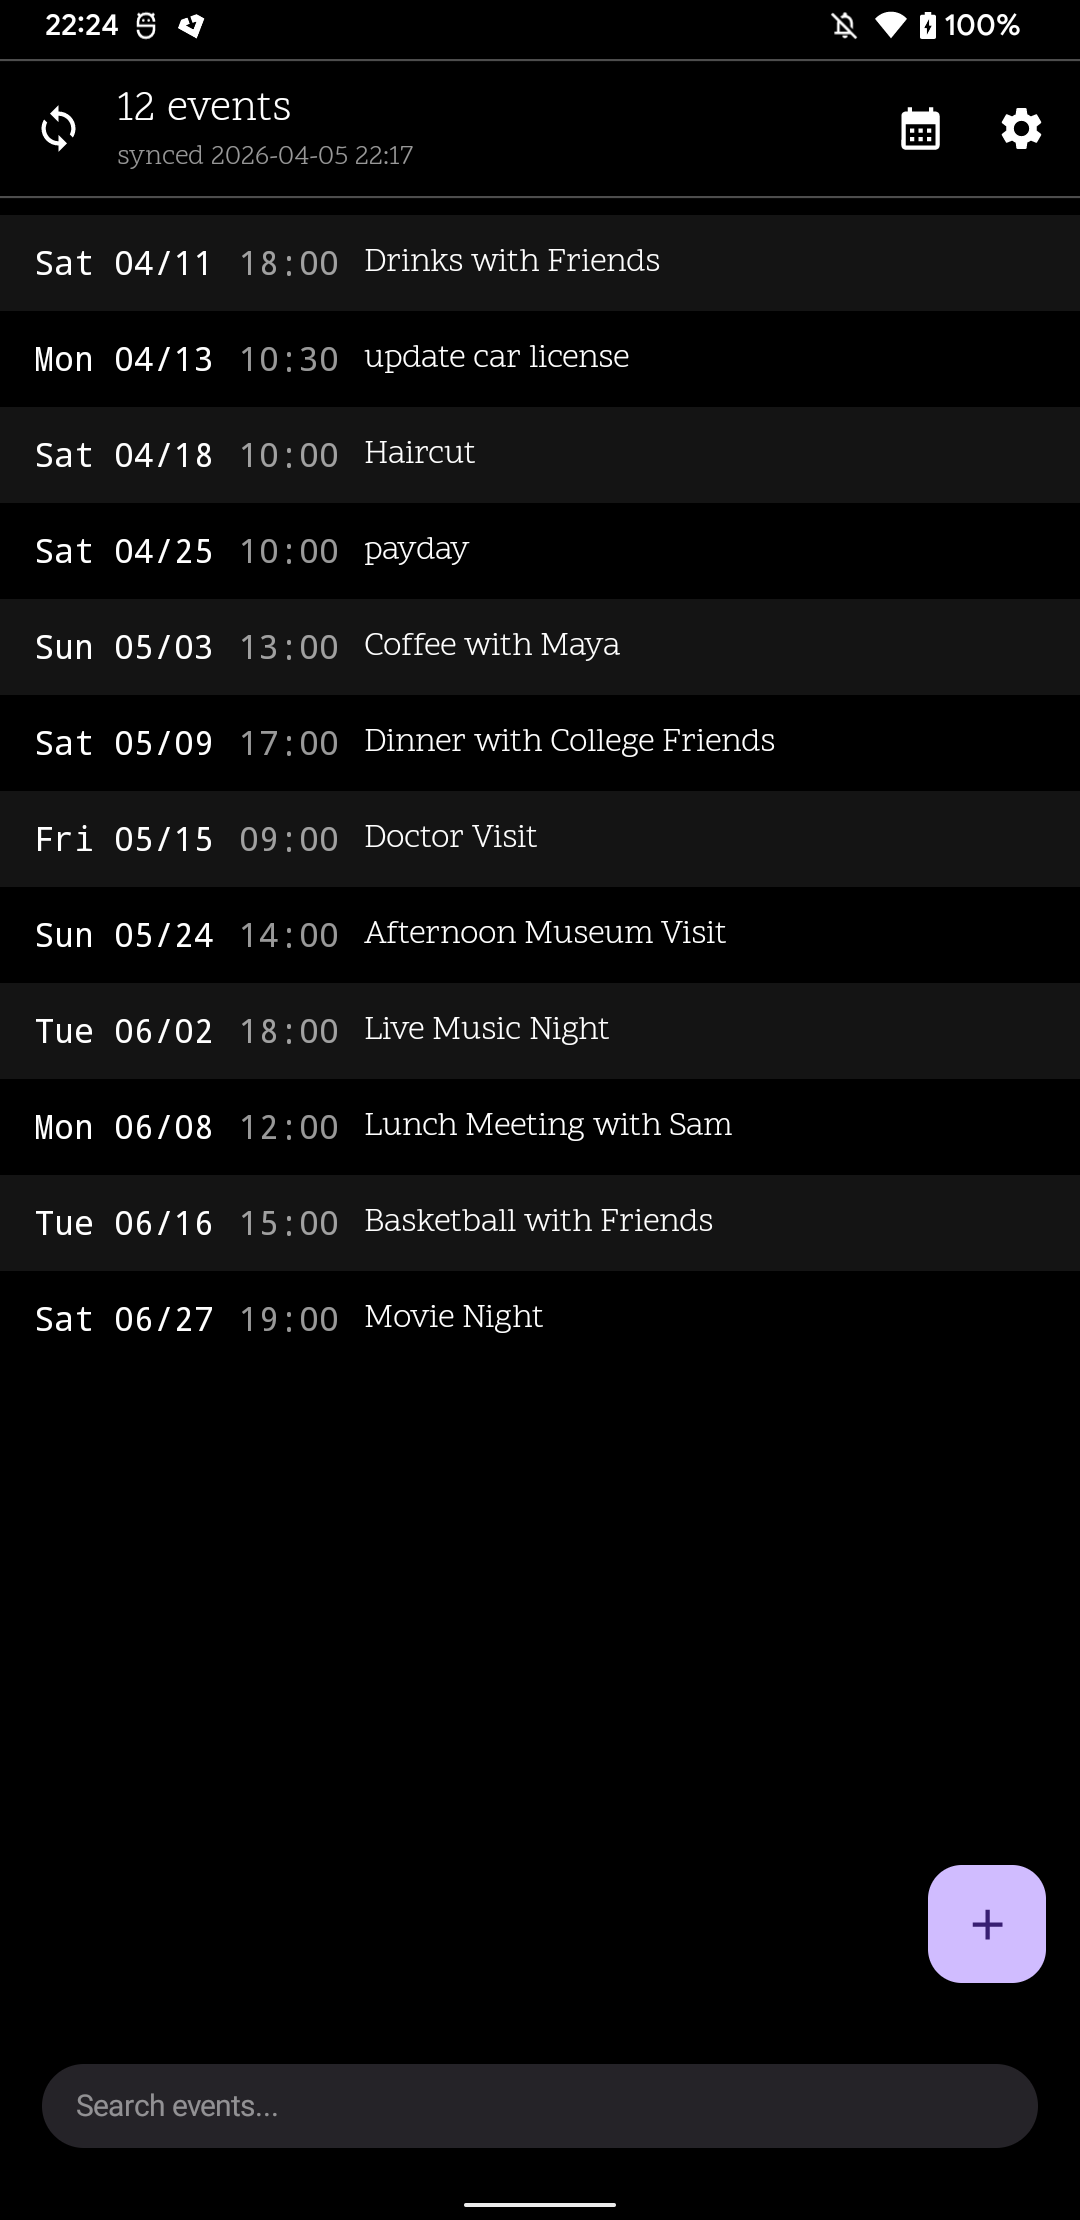
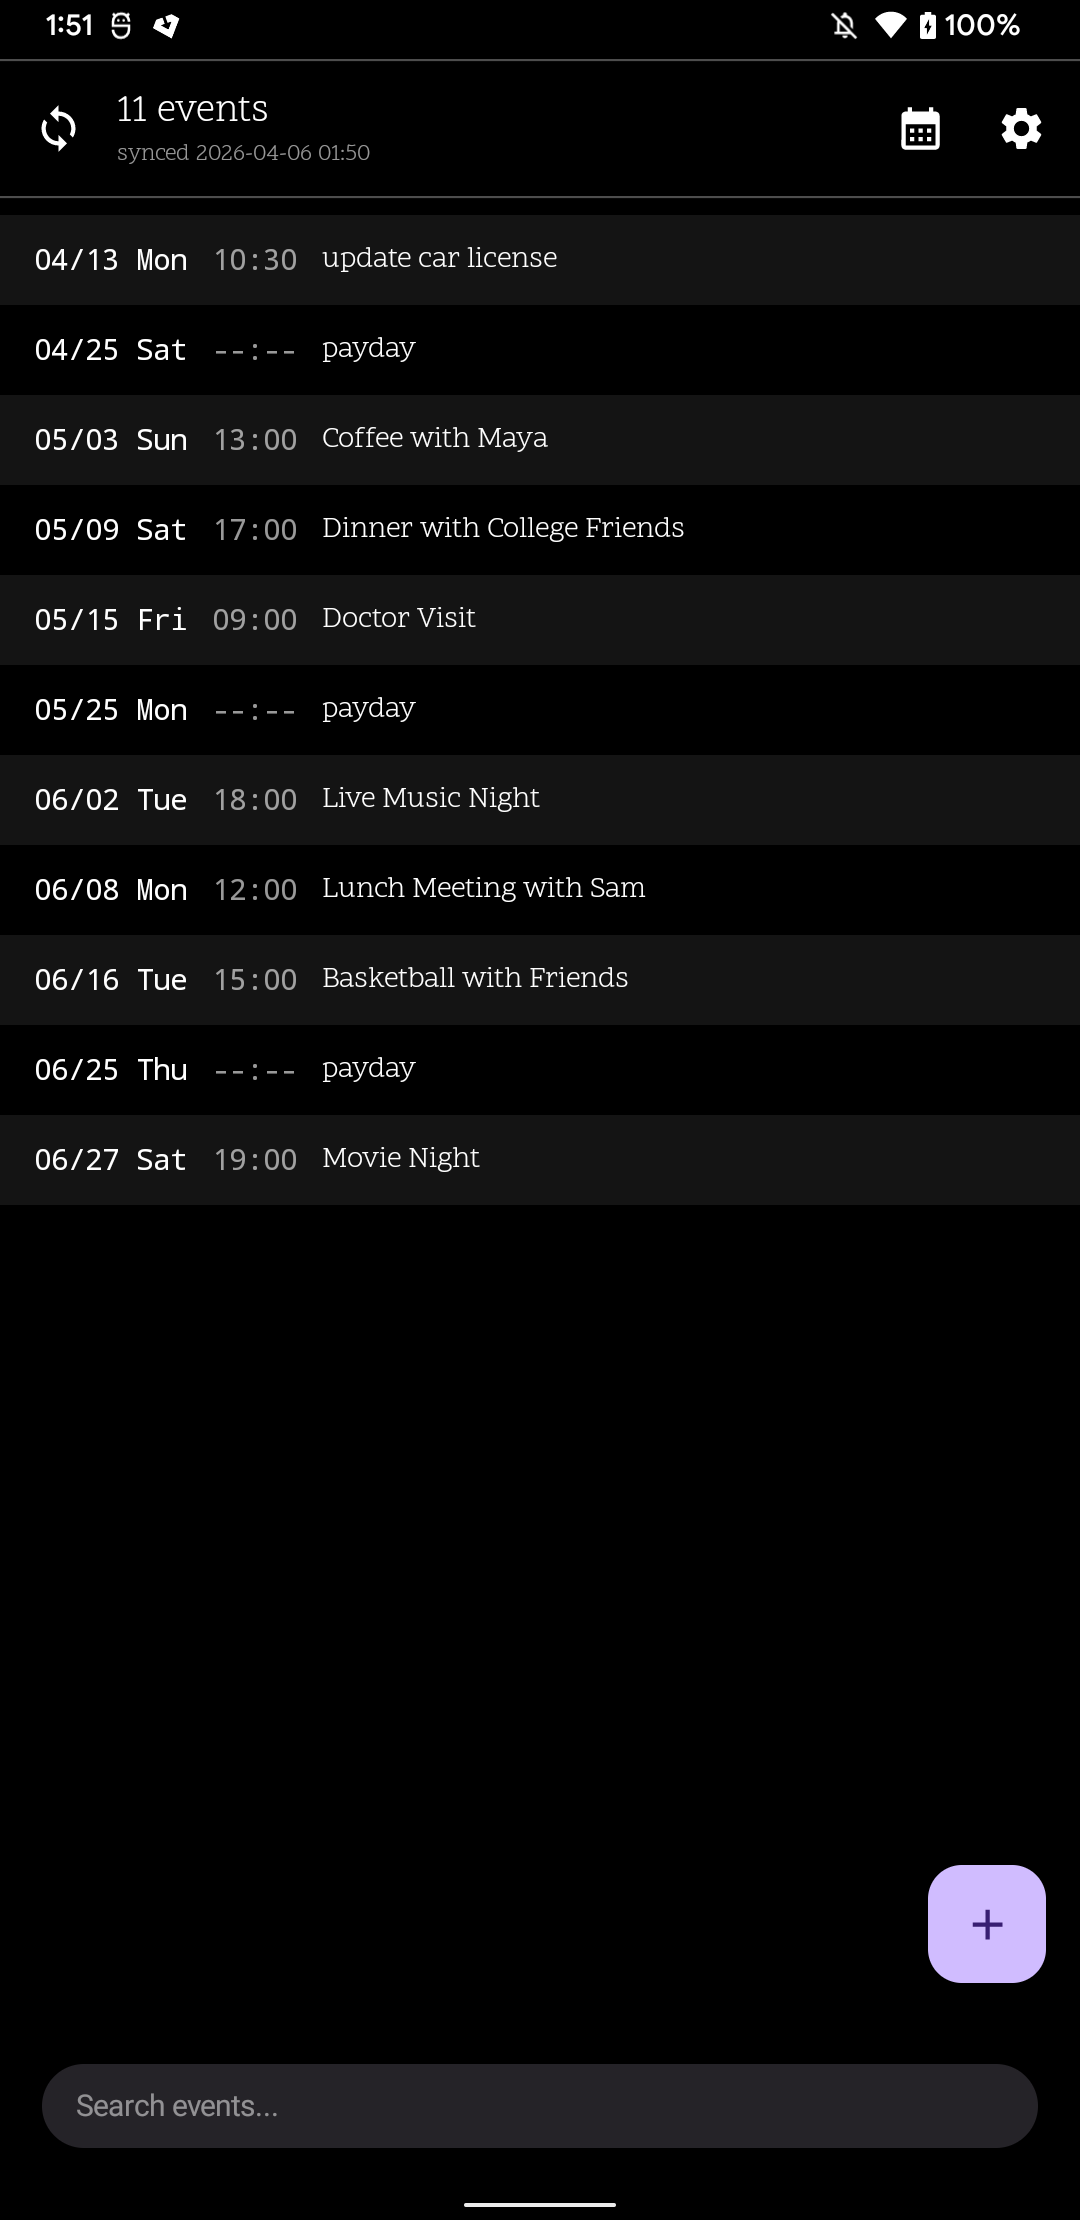
update: (20260406-015440)

diff --git a/app/src/main/java/fumi/day/literalagenda/data/SettingsRepository.kt b/app/src/main/java/fumi/day/literalagenda/data/SettingsRepository.kt
@@ -1,14 +1,11 @@
 package fumi.day.literalagenda.data
 
 import android.content.Context
-import android.content.SharedPreferences
 import androidx.datastore.preferences.core.booleanPreferencesKey
 import androidx.datastore.preferences.core.edit
 import androidx.datastore.preferences.core.floatPreferencesKey
 import androidx.datastore.preferences.core.longPreferencesKey
 import androidx.datastore.preferences.core.stringPreferencesKey
-import androidx.security.crypto.EncryptedSharedPreferences
-import androidx.security.crypto.MasterKeys
 import org.json.JSONObject
 import androidx.datastore.preferences.preferencesDataStore
 import dagger.hilt.android.qualifiers.ApplicationContext
@@ -23,17 +20,6 @@ private val Context.dataStore by preferencesDataStore(name = "settings")
 class SettingsRepository @Inject constructor(
     @ApplicationContext private val context: Context
 ) {
-    private val encryptedPrefs: SharedPreferences = run {
-        val masterKeyAlias = MasterKeys.getOrCreate(MasterKeys.AES256_GCM_SPEC)
-        EncryptedSharedPreferences.create(
-            "secure_prefs",
-            masterKeyAlias,
-            context,
-            EncryptedSharedPreferences.PrefKeyEncryptionScheme.AES256_SIV,
-            EncryptedSharedPreferences.PrefValueEncryptionScheme.AES256_GCM
-        )
-    }
-
     companion object {
         private val SHOW_MINI_CALENDAR = booleanPreferencesKey("show_mini_calendar")
         private val CONTROLS_ON_LEFT = booleanPreferencesKey("controls_on_left")
@@ -46,6 +32,7 @@ class SettingsRepository @Inject constructor(
         private val DATE_FORMAT = stringPreferencesKey("date_format")
         private val LAST_SYNCED_AT = longPreferencesKey("last_synced_at")
         private val LAST_SYNCED_SHAS = stringPreferencesKey("last_synced_shas")
+        private val GITHUB_TOKEN = stringPreferencesKey("github_token")
     }
 
     val showMiniCalendar: Flow<Boolean> = context.dataStore.data
@@ -55,7 +42,7 @@ class SettingsRepository @Inject constructor(
         .map { it[CONTROLS_ON_LEFT] ?: false }
 
     val githubToken: Flow<String> = context.dataStore.data
-        .map { encryptedPrefs.getString("github_token", "") ?: "" }
+        .map { it[GITHUB_TOKEN] ?: "" }
 
     val githubRepo: Flow<String> = context.dataStore.data
         .map { it[GITHUB_REPO] ?: "" }
@@ -101,7 +88,7 @@ class SettingsRepository @Inject constructor(
     }
 
     suspend fun setGitHubToken(token: String) {
-        encryptedPrefs.edit().putString("github_token", token).apply()
+        context.dataStore.edit { it[GITHUB_TOKEN] = token }
     }
 
     suspend fun setGitHubRepo(repo: String) {

diff --git a/app/src/main/java/fumi/day/literalagenda/ui/Navigation.kt b/app/src/main/java/fumi/day/literalagenda/ui/Navigation.kt
@@ -1,25 +1,33 @@
 package fumi.day.literalagenda.ui
 
 import androidx.compose.runtime.Composable
+import androidx.compose.runtime.LaunchedEffect
+import androidx.compose.runtime.collectAsState
 import androidx.compose.runtime.getValue
-import androidx.compose.runtime.mutableStateOf
-import androidx.compose.runtime.remember
-import androidx.compose.runtime.setValue
+import androidx.hilt.navigation.compose.hiltViewModel
 import androidx.navigation.compose.NavHost
 import androidx.navigation.compose.composable
 import androidx.navigation.compose.rememberNavController
-import fumi.day.literalagenda.data.Event
 
 @Composable
 fun AgendaNavigation() {
     val navController = rememberNavController()
-    var selectedEvent by remember { mutableStateOf<Event?>(null) }
+    val viewModel: MainViewModel = hiltViewModel()
+    val selectedEvent by viewModel.selectedEvent.collectAsState()
+    val events by viewModel.events.collectAsState(initial = emptyList())
+
+    // Keep selectedEvent in sync when the underlying event is updated (e.g. after edit+save)
+    LaunchedEffect(events) {
+        val current = viewModel.selectedEvent.value ?: return@LaunchedEffect
+        val updated = events.find { it.filename == current.filename && it.date == current.date }
+        if (updated != null && updated != current) viewModel.selectEvent(updated)
+    }
 
     NavHost(navController = navController, startDestination = "main") {
         composable("main") {
             MainScreen(
                 onNavigateToEdit = { event ->
-                    selectedEvent = event
+                    viewModel.selectEvent(event)
                     if (event != null) {
                         navController.navigate("detail")
                     } else {
@@ -32,7 +40,10 @@ fun AgendaNavigation() {
             )
         }
         composable("detail") {
-            selectedEvent?.let { event ->
+            val event = selectedEvent
+            if (event == null) {
+                LaunchedEffect(Unit) { navController.popBackStack() }
+            } else {
                 EventDetailScreen(
                     event = event,
                     onNavigateBack = { navController.popBackStack() },
@@ -41,8 +52,9 @@ fun AgendaNavigation() {
             }
         }
         composable("edit") {
+            val event = selectedEvent
             EditScreen(
-                event = selectedEvent,
+                event = event,
                 onNavigateBack = { navController.popBackStack() }
             )
         }

diff --git a/app/src/main/java/fumi/day/literalagenda/ui/EventDetailScreen.kt b/app/src/main/java/fumi/day/literalagenda/ui/EventDetailScreen.kt
@@ -8,6 +8,7 @@ import androidx.compose.foundation.layout.WindowInsets
 import androidx.compose.foundation.layout.fillMaxSize
 import androidx.compose.foundation.layout.height
 import androidx.compose.foundation.layout.padding
+import androidx.compose.foundation.layout.padding
 import androidx.compose.foundation.layout.size
 import androidx.compose.foundation.layout.statusBars
 import androidx.compose.foundation.layout.windowInsetsPadding
@@ -18,6 +19,7 @@ import androidx.compose.material.icons.automirrored.filled.ArrowBack
 import androidx.compose.material.icons.filled.Delete
 import androidx.compose.material.icons.filled.Edit
 import androidx.compose.material3.AlertDialog
+import androidx.compose.material3.CircularProgressIndicator
 import androidx.compose.material3.ExperimentalMaterial3Api
 import androidx.compose.material3.FloatingActionButton
 import androidx.compose.material3.HorizontalDivider
@@ -83,15 +85,20 @@ fun EventDetailScreen(
                         }
                     },
                     actions = {
-                        IconButton(
-                            onClick = { showDeleteDialog = true },
-                            enabled = !isSaving
-                        ) {
-                            Icon(
-                                Icons.Default.Delete,
-                                contentDescription = "Delete",
-                                tint = MaterialTheme.colorScheme.onBackground
+                        if (isSaving) {
+                            CircularProgressIndicator(
+                                modifier = Modifier.padding(12.dp).size(24.dp),
+                                strokeWidth = 2.dp,
+                                color = MaterialTheme.colorScheme.onBackground
                             )
+                        } else {
+                            IconButton(onClick = { showDeleteDialog = true }) {
+                                Icon(
+                                    Icons.Default.Delete,
+                                    contentDescription = "Delete",
+                                    tint = MaterialTheme.colorScheme.onBackground
+                                )
+                            }
                         }
                     }
                 )

diff --git a/app/src/main/java/fumi/day/literalagenda/ui/MainScreen.kt b/app/src/main/java/fumi/day/literalagenda/ui/MainScreen.kt
@@ -234,7 +234,7 @@ fun MainScreen(
             } else {
                 LazyColumn(state = listState, modifier = Modifier.weight(1f).fillMaxWidth()) {
                     item { Spacer(modifier = Modifier.height(8.dp)) }
-                    itemsIndexed(displayedEvents, key = { _, event -> "${event.filename}_${event.date}" }) { index, event ->
+                    itemsIndexed(displayedEvents, key = { index, event -> "${event.filename}_${event.date}_$index" }) { index, event ->
                         EventItem(event = event, dateFormat = dateFormat, isOdd = index % 2 == 0, onClick = { onNavigateToEdit(event) })
                     }
                     item { Spacer(modifier = Modifier.height(80.dp)) }
@@ -293,9 +293,11 @@ private fun EventItem(event: Event, dateFormat: String, isOdd: Boolean, onClick:
         verticalAlignment = Alignment.CenterVertically
     ) {
         Text(text = dateText, style = bodyStyle.copy(fontFamily = FontFamily.Monospace, lineHeight = bodyStyle.lineHeight), color = MaterialTheme.colorScheme.onBackground)
-        event.time?.let { time ->
-            Text(text = time.format(timeFormatter), style = bodyStyle.copy(fontFamily = FontFamily.Monospace, lineHeight = bodyStyle.lineHeight), color = MaterialTheme.colorScheme.onSurfaceVariant)
-        }
+        Text(
+            text = event.time?.format(timeFormatter) ?: "--:--",
+            style = bodyStyle.copy(fontFamily = FontFamily.Monospace, lineHeight = bodyStyle.lineHeight),
+            color = MaterialTheme.colorScheme.onSurfaceVariant
+        )
         Text(text = event.title, style = bodyStyle.copy(lineHeight = bodyStyle.lineHeight), color = MaterialTheme.colorScheme.onBackground, maxLines = 1, overflow = TextOverflow.Ellipsis, modifier = Modifier.weight(1f))
     }
 }

diff --git a/app/src/main/java/fumi/day/literalagenda/data/EventRepository.kt b/app/src/main/java/fumi/day/literalagenda/data/EventRepository.kt
@@ -42,7 +42,9 @@ private val _events = MutableStateFlow<List<Event>>(emptyList())
                 ?.mapNotNull { parseEventFile(it, true) }
                 ?: emptyList()
 
-            _events.value = (singleEvents + repeatingEvents).sortedBy { it.date }
+            _events.value = (singleEvents + repeatingEvents)
+                .distinctBy { it.filename }
+                .sortedBy { it.date }
         }
     }
 
@@ -98,6 +100,8 @@ private val _events = MutableStateFlow<List<Event>>(emptyList())
         return withContext(Dispatchers.IO) {
             try {
                 val dir = if (event.repeat == RepeatType.NONE) eventsDir else repeatingDir
+                val otherDir = if (event.repeat == RepeatType.NONE) repeatingDir else eventsDir
+                File(otherDir, event.filename).delete()
                 val file = File(dir, event.filename)
                 file.writeText(eventToMarkdown(event))
                 loadEvents()

diff --git a/app/src/main/java/fumi/day/literalagenda/ui/MainViewModel.kt b/app/src/main/java/fumi/day/literalagenda/ui/MainViewModel.kt
@@ -25,6 +25,13 @@ class MainViewModel @Inject constructor(
 ) : ViewModel() {
 
     val events: Flow<List<Event>> = eventRepository.getUpcomingEvents()
+
+    private val _selectedEvent = MutableStateFlow<Event?>(null)
+    val selectedEvent: StateFlow<Event?> = _selectedEvent
+
+    fun selectEvent(event: Event?) {
+        _selectedEvent.value = event
+    }
     val showMiniCalendar: Flow<Boolean> = settingsRepository.showMiniCalendar
     val controlsOnLeft: Flow<Boolean> = settingsRepository.controlsOnLeft
     val dateFormat: Flow<String> = settingsRepository.dateFormat

diff --git a/README.md b/README.md
@@ -11,7 +11,7 @@ A minimalist text-based agenda app with Git sync.
 </p>
 
 <p>
-    <img width="180" alt="list Screen" src="https://github.com/user-attachments/assets/67b14d9a-361b-4a27-9a79-4375b0659579" />
+i   <img width="80" alt="List Screen" src="https://github.com/user-attachments/assets/79f8142a-b97d-474a-9cbc-1347231642cf" />
     <img width="180" alt="Agenda Detail Screen" src="https://github.com/user-attachments/assets/07b4b531-89c1-4be4-b1e8-6d2dc5d6aadf" />
     <img width="180" alt="Calendar View Screen" src="https://github.com/user-attachments/assets/8ef89114-d8a3-403f-b2be-52c00fc9abe9" />
     <img width="180" alt="Setting Screen" src="https://github.com/user-attachments/assets/b36310e3-2ecb-4b17-93eb-ea4958d153eb" />
